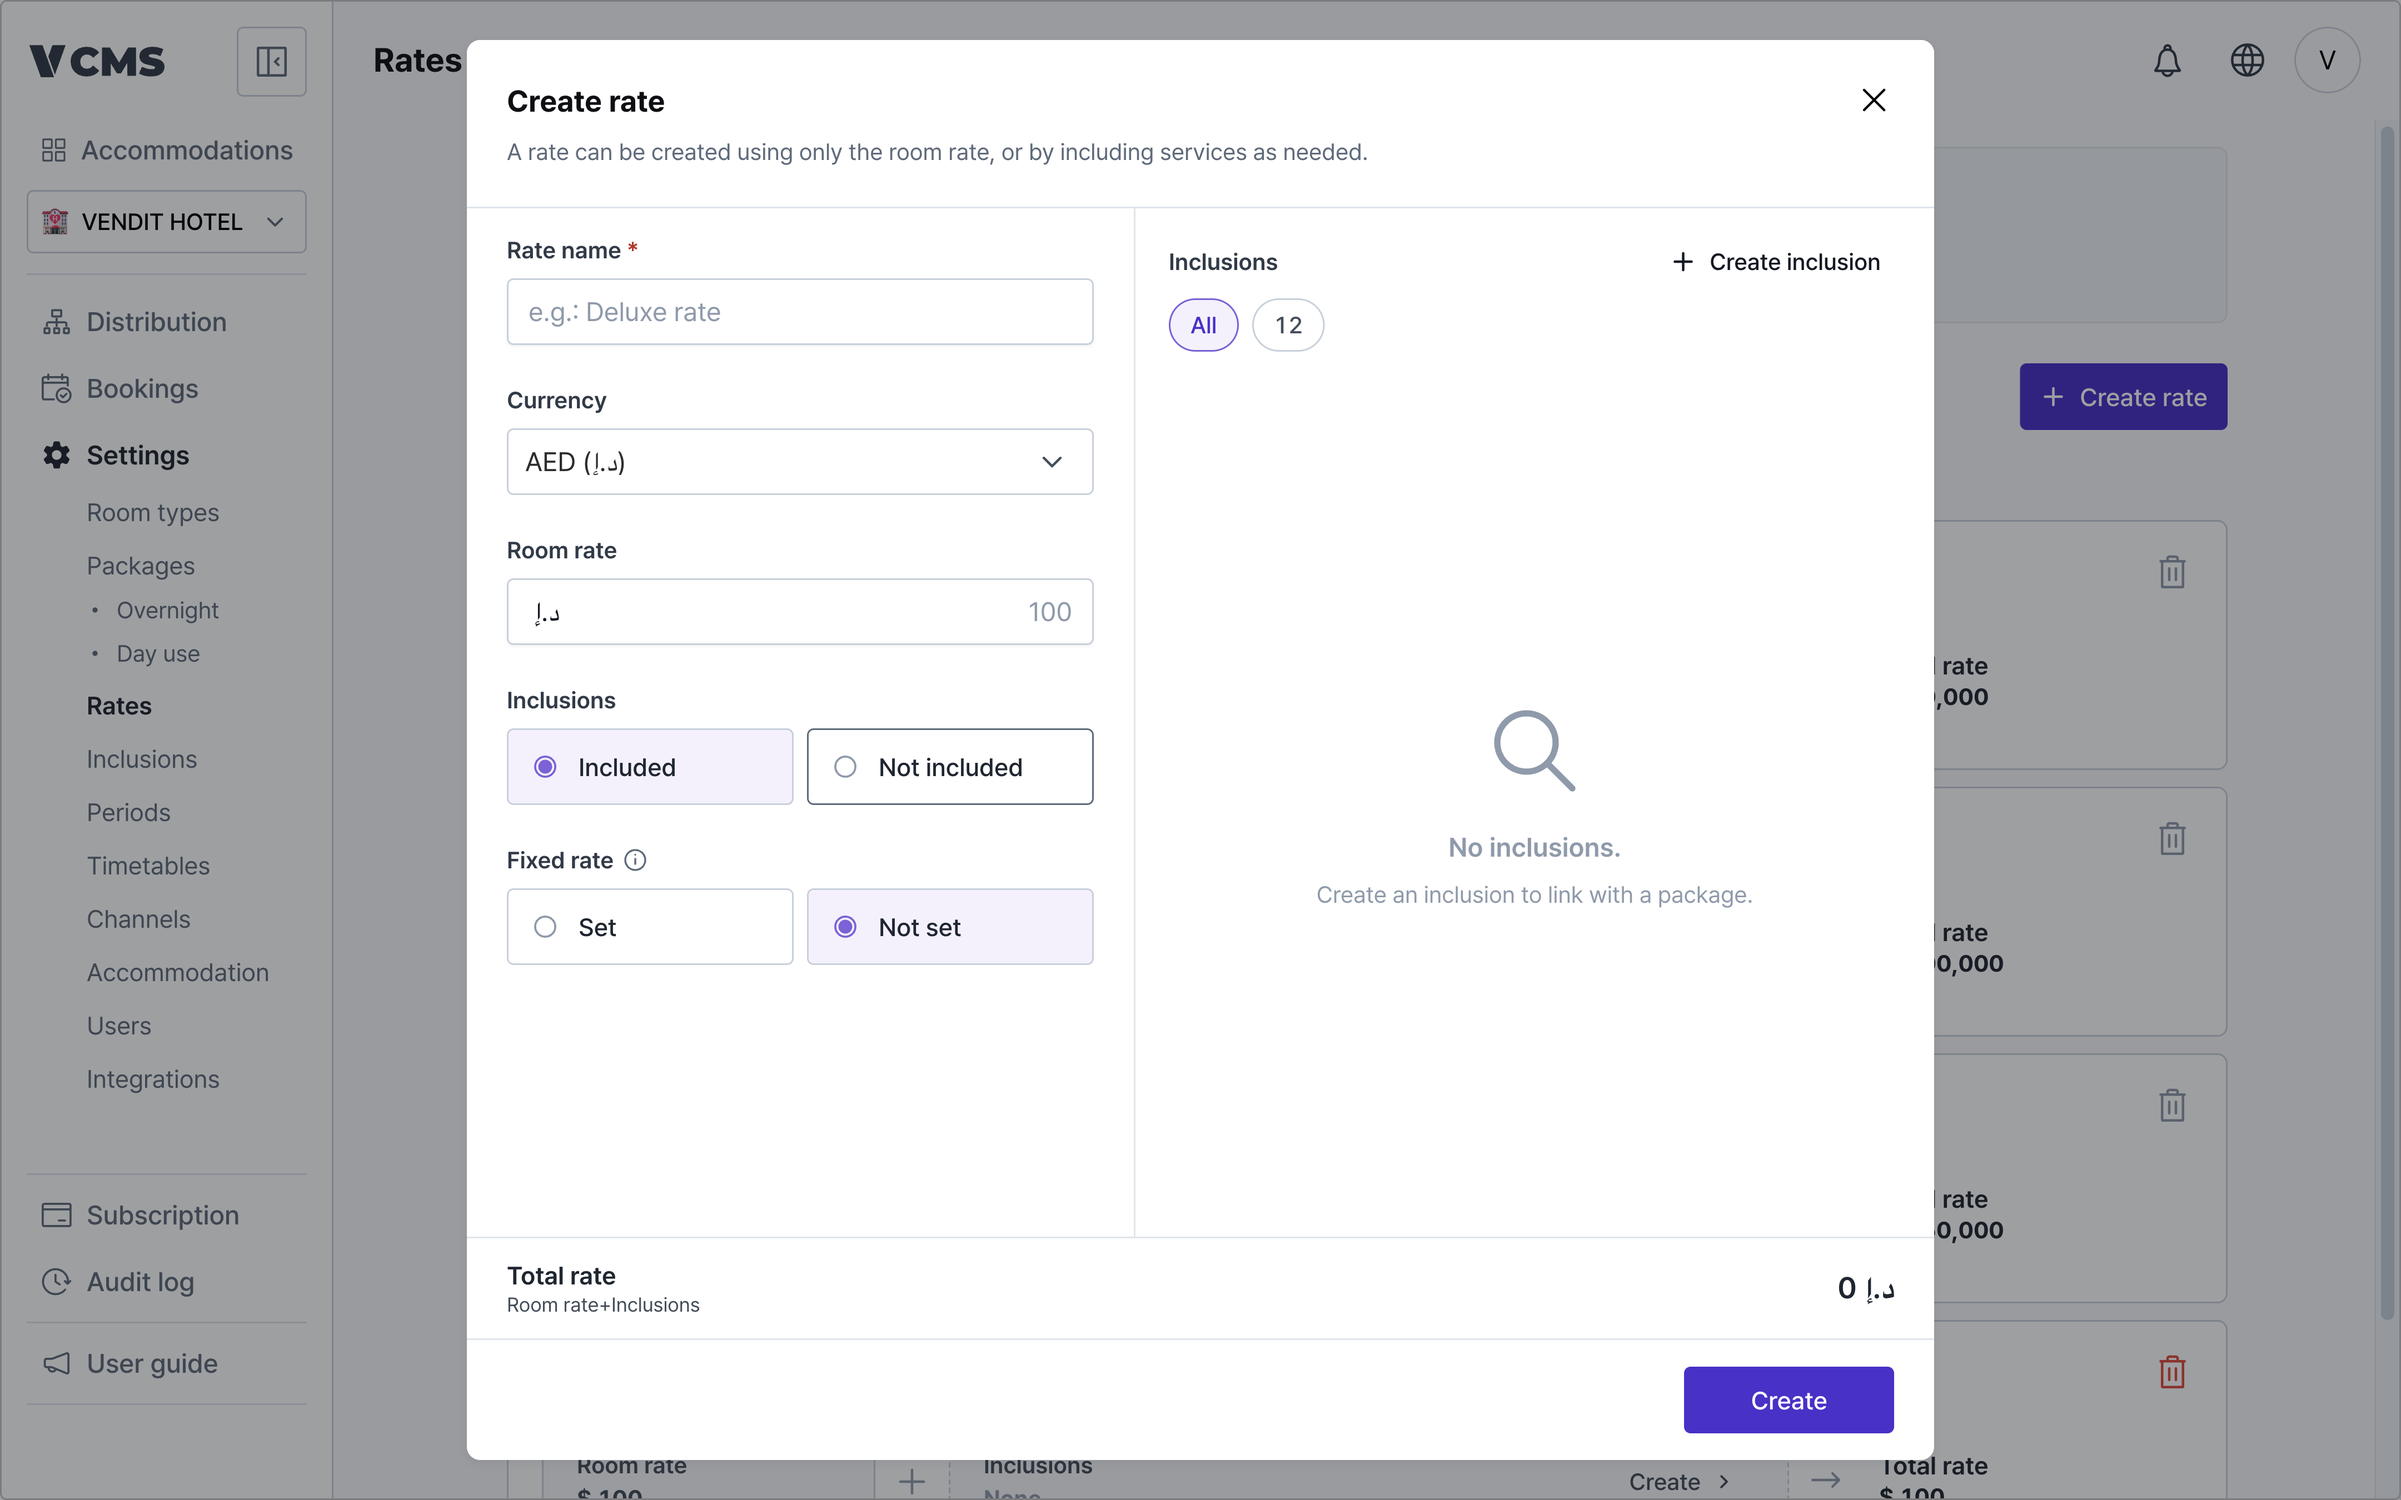
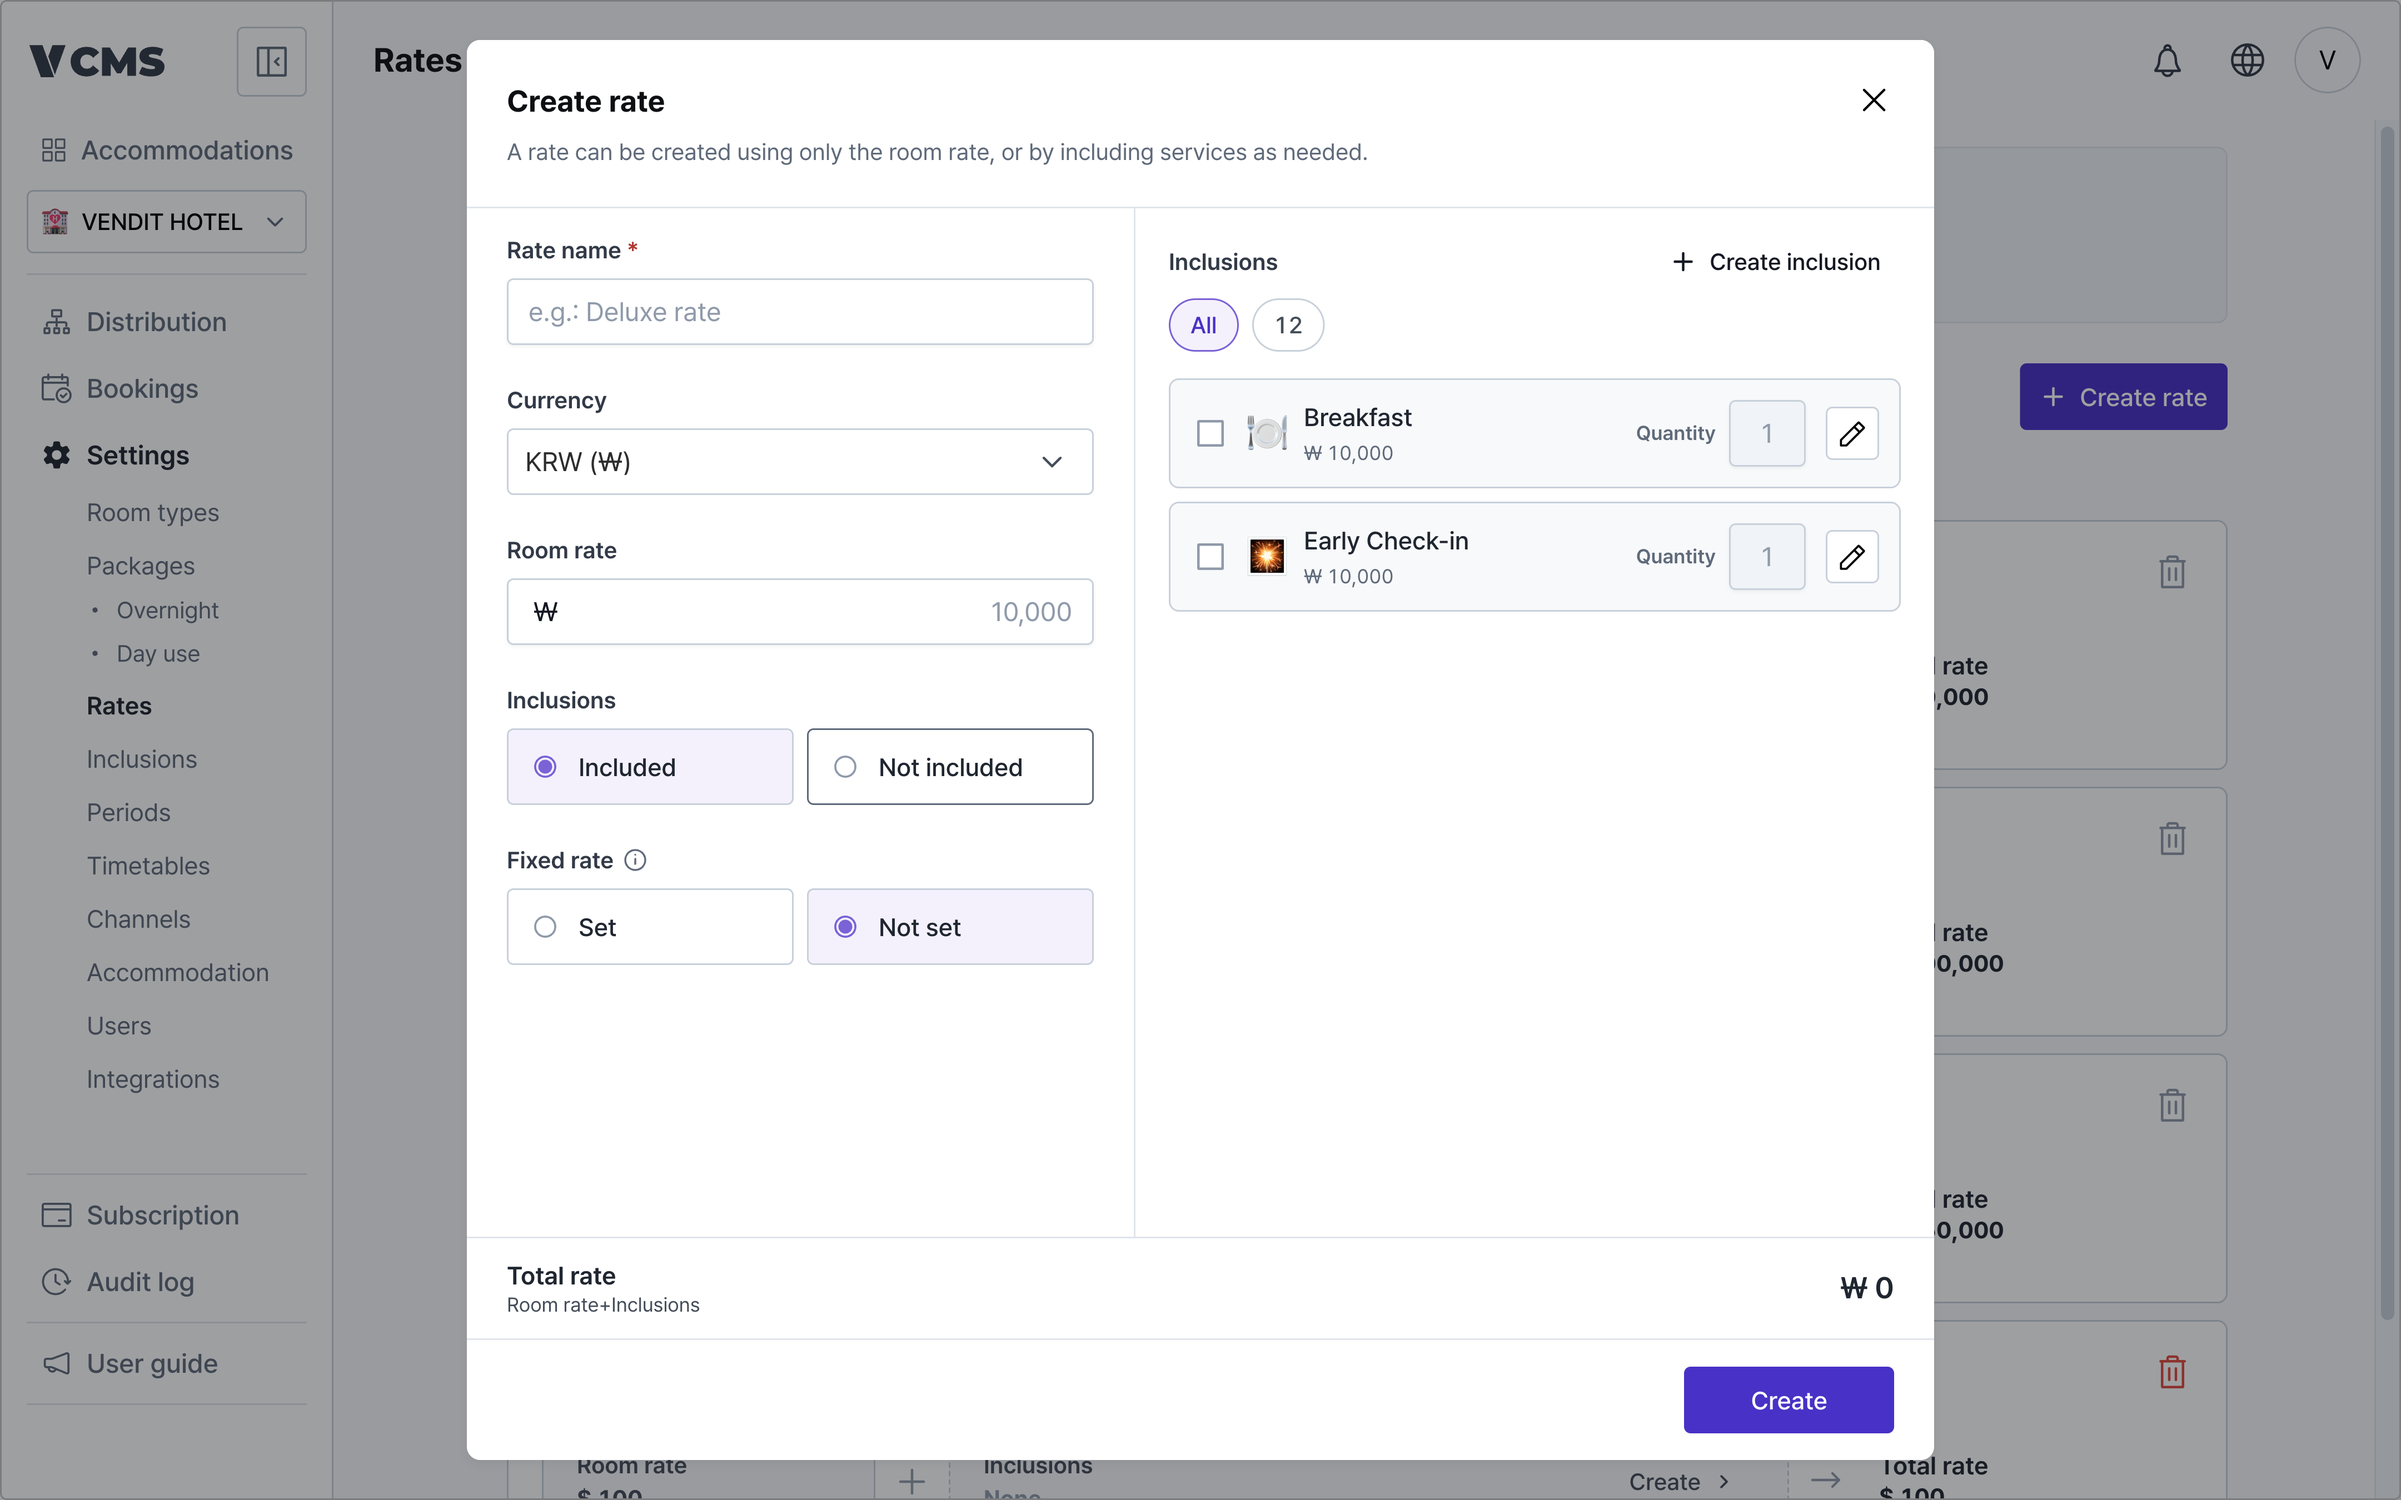
docs(en): show the inclusion picker in the Create rate shot; record the Korean refresh
en-rate-inclusions showed "No inclusions." because the form opens in AED
and both inclusions are priced in KRW. Picking KRW first brings up the
picker the text describes, with quantities. Nothing was created.

HANDOFF.md now records the Korean pass: 84 Korean images compared with
the current product, 14 replaced, 5 legend crops left for the designer
because the frozen Korean text describes rows the product no longer has,
11 differing only in chrome, 54 current. It also notes that the UI
language lives in localStorage, not on the account, and the traps hit
today. jobkit.py gains the staff-menu hide and the Korean Bookings blurs.

diff --git a/scripts/jobkit.py b/scripts/jobkit.py
@@ -10,6 +10,8 @@ anc_rect  : 텍스트에서 위로 올라가며 조건(cond)을 만족하는 첫
 KEBAB_*   : 상품 요금정보 탭의 ⋮ 버튼 (Collapse all 오른쪽, 텍스트 없는 버튼)
 HIDE_DEV  : dev 의 DEVELOPMENT 배지 숨김 / BLUR_ROOMS : 판매관리 객실명 열 블러
 HIDE_TOOLTIP : 다이얼로그가 ? 아이콘에 자동 포커스를 줘서 뜨는 툴팁 숨김(호버로는 안 닫힌다)
+HIDE_INTERNAL: 직원 계정에만 보이는 사이드바 'VENDIT only / VENDIT 전용' 숨김. 모든 운영 캡처 js 에 넣어라
+BOOKINGS_BLUR_LIST_KO / BOOKINGS_BLUR_CARD_KO : 한국어 UI 예약 내역 블러(목록=열 기준, 카드=이름줄/전화/요청)
 """
 import json
 
@@ -44,6 +46,10 @@ KEBAB_BOX = "(()=>{const bs=[...document.querySelectorAll('button,a,[role=button
 HIDE_DEV = "(()=>{let k=0;const w=document.createTreeWalker(document.body,NodeFilter.SHOW_TEXT);let t;while(t=w.nextNode()){if((t.nodeValue||'').trim()==='DEVELOPMENT'){let e=t.parentElement;for(let i=0;i<3&&e;i++){const r=e.getBoundingClientRect();if(r.width>90&&r.width<220){e.style.setProperty('visibility','hidden','important');k++;break;}e=e.parentElement;}}}return k;})()"
 BLUR_ROOMS = "(()=>{const rs=re=>{const o=[];const w=document.createTreeWalker(document.body,NodeFilter.SHOW_TEXT);let n;while(n=w.nextNode()){if(re.test((n.nodeValue||'').trim())){const g=document.createRange();g.selectNodeContents(n);const r=g.getBoundingClientRect();if(r.width>0)o.push(r);}}return o.sort((a,b)=>a.top-b.top);};const a=rs(/^All rooms$/)[0];const s=rs(/^Stop sell$/);if(!a||s.length<2)return [];return [[a.left-10,s[1].top-16,s[0].left-6,innerHeight]];})()"
 HIDE_TOOLTIP = "(()=>{const a=document.activeElement;if(a&&a!==document.body)a.blur();let k=0;document.querySelectorAll('[role=tooltip]').forEach(t=>{const w=t.closest('[data-radix-popper-content-wrapper]')||t;w.style.setProperty('display','none','important');k++;});return k;})()"
+
+HIDE_INTERNAL = "(()=>{let k=0;const w=document.createTreeWalker(document.body,NodeFilter.SHOW_TEXT);let t;while(t=w.nextNode()){if(/^(VENDIT 전용|VENDIT only)$/.test((t.nodeValue||'').trim())){let e=t.parentElement;for(let i=0;i<4&&e;i++){const r=e.getBoundingClientRect();if(r.height>24&&r.width<280){e.style.setProperty('visibility','hidden','important');k++;break;}e=e.parentElement;}}}return k;})()"
+BOOKINGS_BLUR_LIST_KO = "(()=>{const o=[];const HD=/^(예약자|전화번호|메모|요청 사항)$/;const all=[...document.querySelectorAll('th,[role=columnheader],div,span')].filter(e=>e.children.length<=3&&e.getBoundingClientRect().width>0);const hs=all.filter(e=>HD.test((e.innerText||'').trim()));const w=document.createTreeWalker(document.body,NodeFilter.SHOW_TEXT);const ns=[];let n;while(n=w.nextNode()){const t=(n.nodeValue||'').trim();if(!t)continue;const g=document.createRange();g.selectNodeContents(n);const r=g.getBoundingClientRect();if(r.width>0)ns.push([t,r]);}for(const h of hs){const q=h.getBoundingClientRect();const cy=(q.top+q.bottom)/2;const nx=ns.filter(([t,r])=>Math.abs((r.top+r.bottom)/2-cy)<8&&r.left>q.right+4).map(([t,r])=>r.left).sort((a,b)=>a-b)[0];const R=nx?nx-8:q.right+40;for(const [t,r] of ns){const cx=(r.left+r.right)/2;if(r.top>q.bottom+2&&cx>q.left-6&&cx<R&&!HD.test(t))o.push([r.left-3,r.top-2,Math.min(r.right+4,R),r.bottom+2]);}}for(const [t,r] of ns){if(/^\\+?\\d[\\d\\s-]{7,}\\d$/.test(t))o.push([r.left-3,r.top-2,r.right+4,r.bottom+2]);}return o;})()"
+BOOKINGS_BLUR_CARD_KO = "(()=>{const o=[];const cs=[...document.querySelectorAll('div,li,article')].filter(e=>{const r=e.getBoundingClientRect();return r.width>300&&r.width<480&&r.height>220&&r.height<520&&(e.innerText||'').includes('연동됨');});const cards=cs.filter(e=>!cs.some(x=>x!==e&&e.contains(x)));for(const c of cards){const q=c.getBoundingClientRect();const w=document.createTreeWalker(c,NodeFilter.SHOW_TEXT);let n;while(n=w.nextNode()){const t=(n.nodeValue||'').trim();if(!t)continue;const g=document.createRange();g.selectNodeContents(n);const r=g.getBoundingClientRect();if(!r.width)continue;const s=getComputedStyle(n.parentElement);const dy=r.top-q.top,dx=r.left-q.left;const big=parseFloat(s.fontSize)>=19&&parseInt(s.fontWeight)>=700;const phoneRow=dx>18&&dx<40&&dy>108&&dy<136&&t!=='-';const reqRow=dx>18&&dx<40&&dy>204&&dy<232&&t!=='요청 없음';if(big||phoneRow||reqRow||/^\\+?\\d[\\d\\s-]{7,}\\d$/.test(t))o.push([r.left-3,r.top-2,r.right+4,r.bottom+2]);}}return o;})()"
 
 
 def dump(path, jobs):

diff --git a/CHANGELOG.md b/CHANGELOG.md
@@ -1,6 +1,10 @@
 # CHANGELOG
 
 ## 2026-09-11
+- 한국어 글 동결 유지, 이미지만 해제 (CLAUDE.md, scripts/swap_image.py --ko-images)
+- 한국어 이미지 84 장 비교 후 낡은 14 장 한국어 UI 로 교체, 제자리 덮어쓰기 (images/)
+- 영어 캡처 28 장 재촬영, 직원 전용 사이드바 메뉴 제거 (images/en-*.png)
+- 운영 캡처 공용 헬퍼 추가: 직원 메뉴 숨김, 한국어 예약 블러 (scripts/jobkit.py)
 - 상품 요금정보 기간 5 장, 요금 선택, 기간 가중치 2 장, 판매관리 동기화, VCLOUD 연동 실패 영어 캡처 (images/en-*.png)
 - 영어 배너 {date} 버그로 보류한 판매관리 캡처 (images/en-distribution-booking-sync-only.png)
 - job 헬퍼 추가 (scripts/jobkit.py), 마우스만 올리는 hover_at 스텝 추가 (scripts/cdp_capture.py)
